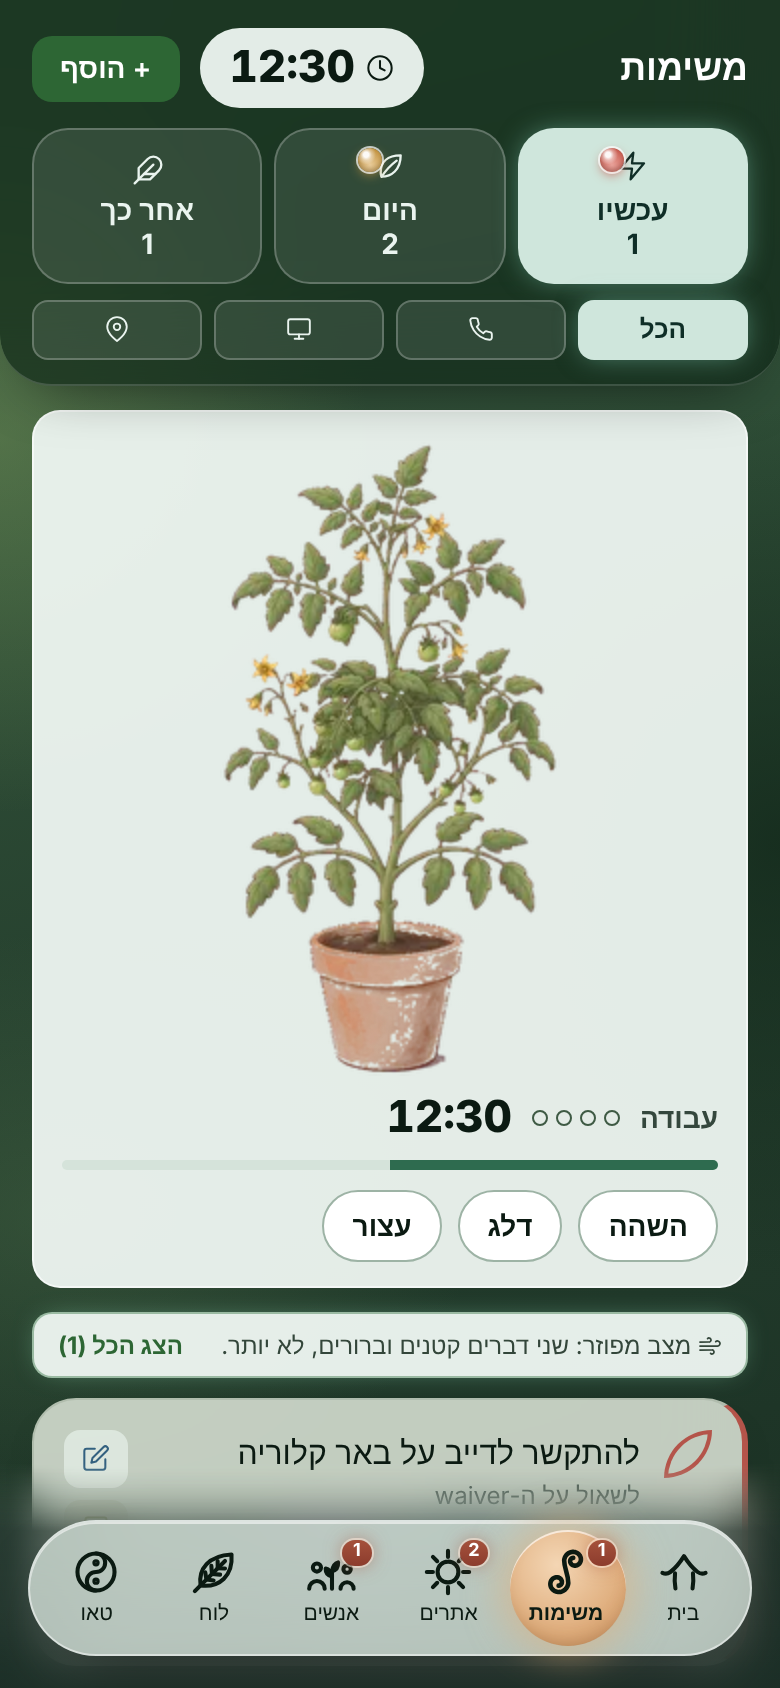
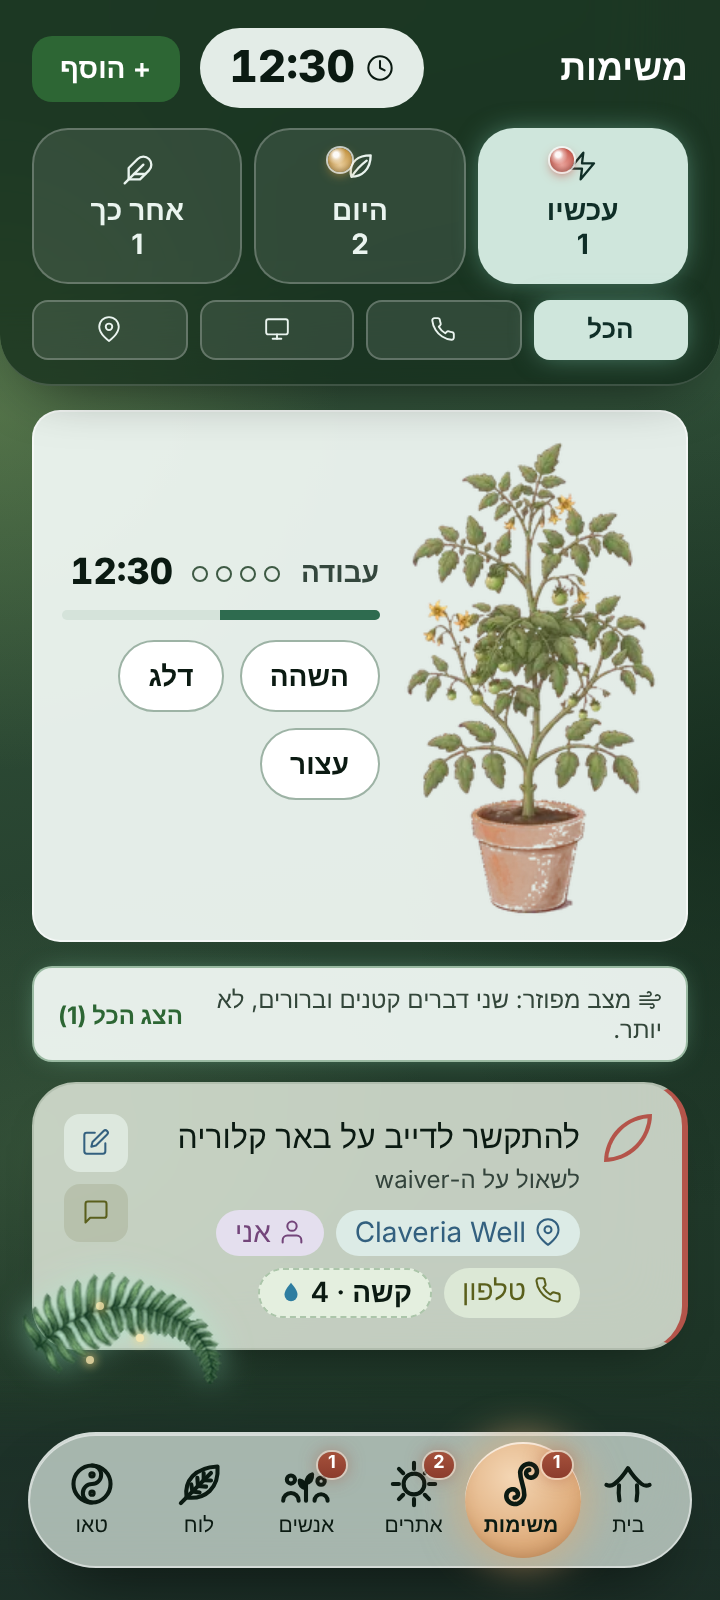
Tomato: single-file stills (00, 31) so the card is never empty, 240px plant beside the clock, a skip is not ripe
- 00 at the start and while the strip loads (or if it fails); 31 only after a work round that really ran out, shown through the break; the strip only animates the work phase. Only the two stills are fetched with the strip when a pomodoro starts.
- Compact: a 127.5x240 plant (170:320) on the side of the clock and buttons; the first task stays in view at 360x800 and 412x915.
- Skip: one small field, sk, in game.world.timer; a skipped round shows 00 quietly. An old state without it loads as a real end.
- The strip is the lossy one supplied (5440x320, 1.1MB), replacing the rebuilt one.
- tests/tomato.cjs now 80 checks; new screenshots in preview/timers/.

Claude-Session: https://claude.ai/code/session_01V4VghbMd7jjMjMtY572Ce3

diff --git a/index.html b/index.html
@@ -382,11 +382,20 @@ mark.hl{background:rgba(var(--accent-rgb),.2);color:inherit;border-radius:4px;pa
 [data-theme="jungle"] .tm-pick b{display:block;font-size:var(--fs-lg);font-weight:700;margin-bottom:3px}
 [data-theme="jungle"] .tm-pick small{display:block;font-size:var(--fs-base);color:var(--t2);line-height:1.45}
 /* the tomato (jungle pomodoro): a fixed 170x320 box; one CSS animation of 31 steps over the work phase, started from game.world.timer with a negative delay. Frame 31 (ripe) is only the end. */
-[data-theme="jungle"] .tm-tomw{display:flex;justify-content:center;margin:0 0 8px}
-[data-theme="jungle"] .tm-tom{display:block;flex:none;width:170px;height:320px;direction:ltr;background:url(assets/tomato/tomato-strip.webp) 0 0/5440px 320px no-repeat;background-position-x:calc(var(--f,0) * -170px)}
+[data-theme="jungle"] .tm-strip.has-tom{display:flex;align-items:center;gap:12px}
+[data-theme="jungle"] .tm-main{flex:1 1 0;min-width:0}
+[data-theme="jungle"] .tm-main .tm-row{flex-wrap:wrap;row-gap:2px}
+[data-theme="jungle"] .tm-main .tm-clock{font-size:var(--fs-2xl)}
+[data-theme="jungle"] .tm-main .tm-line{flex-basis:100%}
+/* the tomato: a still frame (a single file, shown from the first moment) until the strip is in; then one CSS animation of 31 steps over the work phase, started from game.world.timer with a negative delay. 240 px tall, 170:320 */
+[data-theme="jungle"] .tm-tomw{flex:none;width:127.5px;height:240px;position:relative;direction:ltr}
+[data-theme="jungle"] .tm-still{display:block;width:100%;height:100%;object-fit:contain}
+[data-theme="jungle"] .tm-tom{display:none;position:absolute;inset:0;background:url(assets/tomato/tomato-strip.webp) 0 0/4080px 240px no-repeat;background-position-x:calc(var(--f,0) * -127.5px)}
+[data-theme="jungle"] .tm-tomw.live .tm-still{display:none}
+[data-theme="jungle"] .tm-tomw.live .tm-tom{display:block}
 [data-theme="jungle"] .tm-tom.grow{animation:tm-grow calc(var(--tot) * 1ms) steps(31,end) forwards;animation-delay:calc(var(--el) * -1ms)}
 [data-theme="jungle"] .tm-tom.grow.hold{animation-play-state:paused}
-@keyframes tm-grow{from{background-position-x:0}to{background-position-x:-5270px}}
+@keyframes tm-grow{from{background-position-x:0}to{background-position-x:-3952.5px}}
 @media (prefers-reduced-motion:reduce){[data-theme="jungle"] .tm-tom.grow{animation:none}}
 /* more feelings (jungle): the row under the five, and the sheet of nineteen (a circle of its colour until its drawing comes) */
 [data-theme="jungle"] .feel-row{display:flex;align-items:center;justify-content:space-between;gap:8px;margin-top:10px;flex-wrap:wrap}
@@ -5014,13 +5023,26 @@ let tmT = null   // the one timeout
 function tmReduced() { try { return matchMedia('(prefers-reduced-motion: reduce)').matches } catch(e) { return false } }
 // the frame of the work phase now (0..30; 31 is only the end), from its end time and length
 function tmFrame(t) { const tot = TM_MIN.work * 60000, el = Math.max(0, Math.min(tot, tot - tmLeft(t))); return Math.min(TM_FRAMES - 2, Math.floor(el / tot * (TM_FRAMES - 1))) }
-// the tomato of a pomodoro: growing while its work phase runs (paused with it), ripe from the end of the work phase on, until the next work phase begins
+// the tomato of a pomodoro: growing while its work phase runs (paused with it); ripe (frame 31) from a work phase that really ran out until the next one begins; a skipped one shows frame 00, quietly.
+// A single file is shown at once (00 or 31, never an empty box); the strip only draws the growing, once it is in. If it fails, the still stays.
+const TM_STILL = n => 'assets/tomato/tomato-' + String(n).padStart(2, '0') + '.webp'
+let tmStripOk = 0   // 0 not asked, 1 in, 2 failed
+function tmStripLoad() {
+  if(tmStripOk) return
+  try {
+    const im = new Image()
+    im.onload = function() { tmStripOk = 1; document.querySelectorAll('.tm-tomw').forEach(w => { const e = w.querySelector('.tm-tom.grow'), t = tmGet(); if(e && t) { const tot = TM_MIN.work * 60000; e.style.setProperty('--el', Math.round(Math.max(0, Math.min(tot - 1, tot - tmLeft(t))))); e.style.setProperty('--f', tmFrame(t)) } w.classList.add('live') }) }
+    im.onerror = function() { tmStripOk = 2 }
+    im.src = TM_STRIP
+  } catch(e) { tmStripOk = 2 }
+}
 function tmTomHtml(t) {
   if(!t || t.kind !== 'pomo') return ''
-  const grow = t.phase === 'work' && !t.done, tot = TM_MIN.work * 60000
+  const grow = t.phase === 'work' && !t.done, tot = TM_MIN.work * 60000, ripe = !grow && !t.sk
+  if(grow && !tmStripOk) tmStripLoad()
   const el = grow ? Math.max(0, Math.min(tot - 1, tot - tmLeft(t))) : 0
   const f = grow ? tmFrame(t) : TM_FRAMES - 1
-  return `<div class="tm-tomw"><i class="tm-tom${grow ? ' grow' + (t.end ? '' : ' hold') : ''}" role="img" aria-label="${grow ? TM_TXT.tomGrow : TM_TXT.tomRipe}" style="--f:${f};--tot:${tot};--el:${Math.round(el)}"></i></div>`
+  return `<div class="tm-tomw${grow && tmStripOk === 1 ? ' live' : ''}" role="img" aria-label="${ripe ? TM_TXT.tomRipe : TM_TXT.tomGrow}"><img class="tm-still" src="${TM_STILL(ripe ? 31 : 0)}" alt="" decoding="async">${grow ? `<i class="tm-tom grow${t.end ? '' : ' hold'}" style="--f:${f};--tot:${tot};--el:${Math.round(el)}"></i>` : ''}</div>`
 }
 // with reduced motion nothing moves: the still frame is set again from the clock's own update, when it has changed
 function tmTomStill(t) {
@@ -5035,8 +5057,8 @@ function tmStart(kind, phase) {
   if(currentTheme !== 'jungle') return
   const old = tmGet(), round = kind === 'pomo' && old && old.kind === 'pomo' ? old.round : 0
   phase = phase || (kind === 'five' ? 'five' : 'work')
-  tmSet({kind, phase, round, end: Date.now() + TM_MIN[phase] * 60000, left: 0, done: false})
-  if(kind === 'pomo') { try { new Image().src = TM_STRIP } catch(e) {} }   // the strip is fetched only when a pomodoro begins
+  tmSet({kind, phase, round, end: Date.now() + TM_MIN[phase] * 60000, left: 0, done: false, sk: kind === 'pomo' && phase !== 'work' && old && old.sk ? 1 : 0})
+  if(kind === 'pomo') { try { new Image().src = TM_STILL(0); new Image().src = TM_STILL(31) } catch(e) {} tmStripLoad() }   // the two stills and the strip are fetched only when a pomodoro begins
   haptic('light'); closeModal(); tmRefresh()
 }
 function tmPause() { const t = tmGet(); if(!t || !t.end) return; t.left = tmLeft(t); t.end = 0; tmSet(t); tmRefresh() }
@@ -5048,7 +5070,7 @@ function tmEnd(t, felt) {
   t.end = 0; t.left = 0; t.done = true; tmSet(t)
   if(felt) { haptic('light'); playFx('save') }
 }
-function tmSkip() { const t = tmGet(); if(!t || t.kind !== 'pomo' || t.done) return; tmEnd(t, false); tmRefresh() }
+function tmSkip() { const t = tmGet(); if(!t || t.kind !== 'pomo' || t.done) return; if(t.phase === 'work') t.sk = 1; tmEnd(t, false); tmRefresh() }   // sk: a work round skipped, not run out (the tomato is not ripe then)
 function tmNextBreak(t) { return (t.round || 0) % TM_ROUNDS === 0 ? 'long' : 'short' }
 // on the Tasks header: the clock (its time while one runs); a tap opens the sheet
 function tmHeadHtml() {
@@ -5058,18 +5080,18 @@ function tmHeadHtml() {
 // the strip at the top of the task list (only while a timer is kept)
 function tmStripHtml(inSheet) {
   const t = tmGet(); if(!t || currentTheme !== 'jungle') return ''
-  const tom = inSheet ? '' : tmTomHtml(t)
+  const tom = inSheet ? '' : tmTomHtml(t), cls = tom ? ' has-tom' : ''
   const T = TM_TXT, pomo = t.kind === 'pomo', btn = (f, label, main) => `<button class="tm-b${main ? ' main' : ''}" onclick="${f}">${label}</button>`
   const dots = pomo ? `<span class="tm-dots" aria-label="${T.round.replace('{n}', Math.min(TM_ROUNDS, (t.round % TM_ROUNDS) + (t.done && t.phase === 'work' ? 0 : 1)))}">${Array.from({length: TM_ROUNDS}, (_, i) => `<i${i < (t.round % TM_ROUNDS || (t.round && t.done && t.phase === 'work' ? TM_ROUNDS : 0)) ? ' class="on"' : ''}></i>`).join('')}</span>` : ''
   if(t.done) {
     const line = t.kind === 'five' ? T.fiveDone : t.phase === 'work' ? T.workDone.replace('{m}', TM_MIN[tmNextBreak(t)]) : T.breakDone
     const go = t.kind === 'five' ? btn("tmStart('five')", T.fiveMore, true) : t.phase === 'work' ? btn("tmStart('pomo','" + tmNextBreak(t) + "')", T.startBreak, true) : btn("tmStart('pomo','work')", T.startWork, true)
-    return `<div class="tm-strip done" role="status">${tom}<div class="tm-row"><span class="tm-line">${line}</span>${dots}</div><div class="tm-acts">${go}${btn('tmStop()', T.finish)}</div></div>`
+    return `<div class="tm-strip done${cls}" role="status">${tom}<div class="tm-main"><div class="tm-row"><span class="tm-line">${line}</span>${dots}</div><div class="tm-acts">${go}${btn('tmStop()', T.finish)}</div></div></div>`
   }
   const left = tmLeft(t), total = TM_MIN[t.phase] * 60000, pct = Math.round((1 - left / total) * 100)
-  return `<div class="tm-strip" data-phase="${t.phase}">${tom}<div class="tm-row"><span class="tm-k">${T.phase[t.phase]}${t.end ? '' : ' · ' + T.paused}</span>${dots}<b class="tm-clock" aria-live="off">${tmClock(left)}</b></div>
+  return `<div class="tm-strip${cls}" data-phase="${t.phase}">${tom}<div class="tm-main"><div class="tm-row"><span class="tm-k">${T.phase[t.phase]}${t.end ? '' : ' · ' + T.paused}</span>${dots}<b class="tm-clock" aria-live="off">${tmClock(left)}</b></div>
       <div class="tm-bar"><i style="width:${pct}%"></i></div>
-      <div class="tm-acts">${t.end ? btn('tmPause()', T.pause) : btn('tmResume()', T.resume, true)}${pomo ? btn('tmSkip()', T.skip) : ''}${btn('tmStop()', T.stop)}</div></div>`
+      <div class="tm-acts">${t.end ? btn('tmPause()', T.pause) : btn('tmResume()', T.resume, true)}${pomo ? btn('tmSkip()', T.skip) : ''}${btn('tmStop()', T.stop)}</div></div></div>`
 }
 // a phase that ended while away is closed quietly; then the strip is drawn again and the next timeout set
 function tmRefresh() {
@@ -5929,7 +5951,7 @@ function worldFill(o) {
   // the timer on the Tasks header (jungle; absent when none runs): kept only when whole
   const tm = o.timer
   if(tm && typeof tm === 'object' && (tm.kind === 'five' || tm.kind === 'pomo') && TM_MIN[tm.phase] && (tm.kind === 'five') === (tm.phase === 'five'))
-    w.timer = {kind: tm.kind, phase: tm.phase, round: Math.max(0, Math.floor(+tm.round || 0)), end: Math.max(0, +tm.end || 0), left: Math.max(0, Math.min(TM_MIN[tm.phase] * 60000, +tm.left || 0)), done: !!tm.done}
+    w.timer = {kind: tm.kind, phase: tm.phase, round: Math.max(0, Math.floor(+tm.round || 0)), end: Math.max(0, +tm.end || 0), left: Math.max(0, Math.min(TM_MIN[tm.phase] * 60000, +tm.left || 0)), done: !!tm.done, sk: tm.sk ? 1 : 0}
   return w
 }
 // the twelve achievements: always all shown, each with how far along it is ([have, need])
